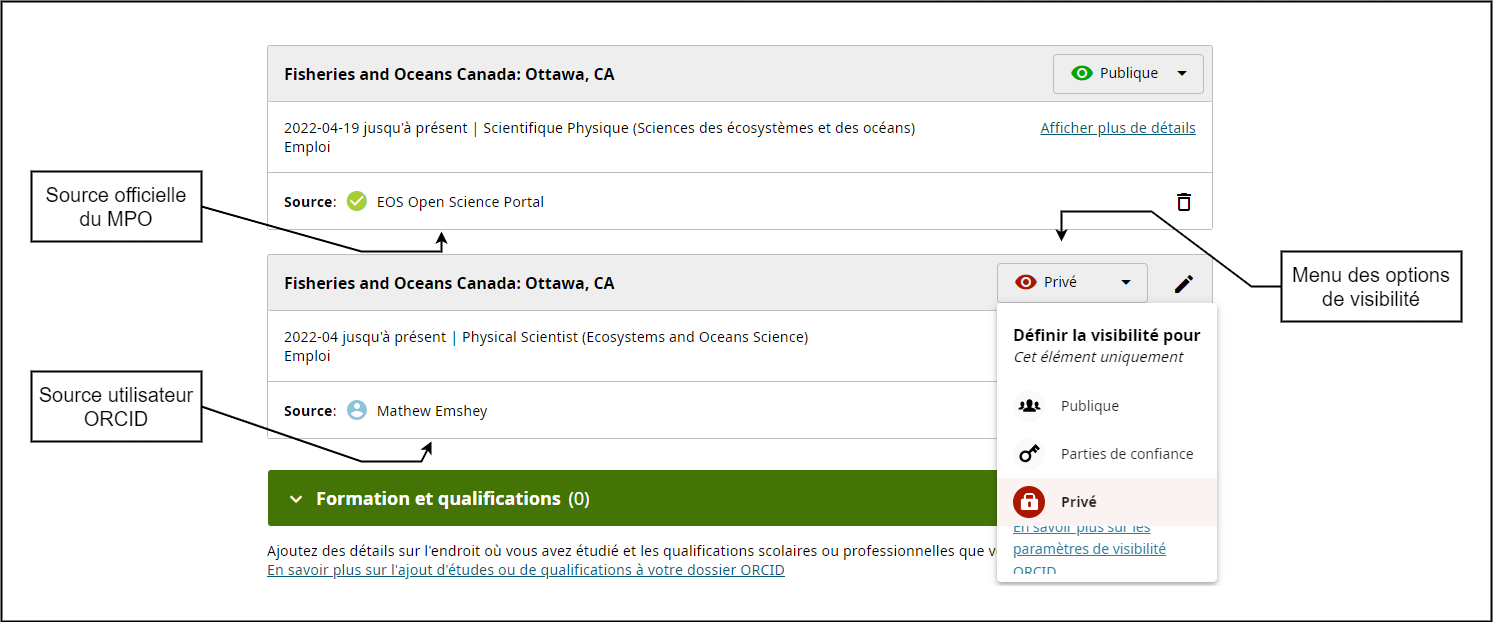
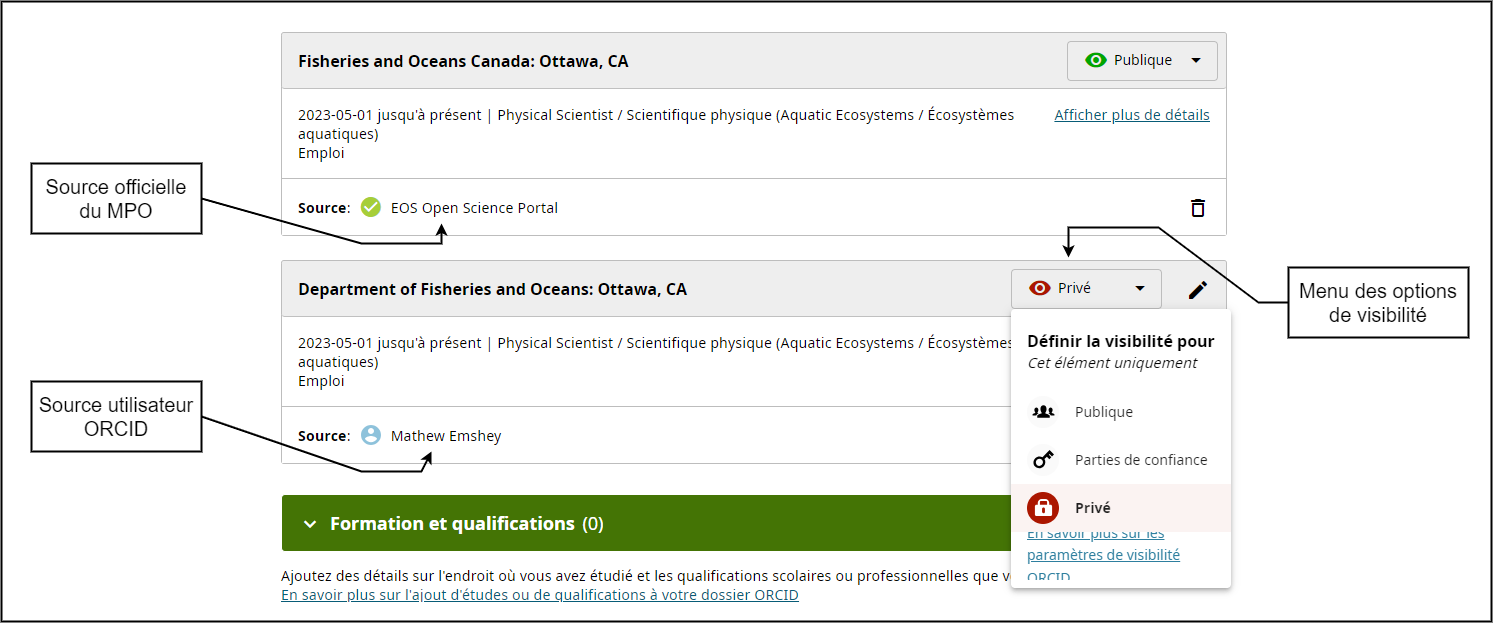
docs(orcid): updated section to include orcid best practices

diff --git a/docs/fr/guide/orcid.md b/docs/fr/guide/orcid.md
@@ -6,149 +6,160 @@ description:
 
 # 9.0 - ORCID
 
-[ORCID (Identifiant Ouvert pour Chercheurs et Contributeurs)](https://orcid.org/) est un identifiant numérique unique et
-persistant (PID) qui distingue les chercheurs individuels et leur travail, leur permettant de connecter leurs
-contributions—telles que des articles, ensembles de données et revues—à travers des organisations, des revues et des
-organismes de financement. ORCID offre un moyen simplifié de suivre et de partager les résultats de recherche avec
-précision, garantissant que les chercheurs reçoivent une attribution et une reconnaissance appropriées pour leur
-travail, même lorsqu'ils changent d’institution ou de rôle.
+[ORCID (Identifiant Ouvert de Chercheur et Contributeur)](https://orcid.org/) est un identifiant numérique unique et persistant (PID) qui distingue les chercheurs individuels et leurs travaux, leur permettant de connecter leurs contributions — comme les articles, ensembles de données et évaluations — à travers les organisations, revues et organismes de financement. ORCID offre un moyen simplifié de suivre et partager avec précision les productions de recherche, garantissant que les chercheurs reçoivent une attribution et une reconnaissance adéquates pour leur travail, même lorsqu'ils changent d’institutions ou de rôles.
 
-ORCID facilite la collecte et le rapport de données, améliore la collaboration et la visibilité à travers les projets,
-et optimise la gestion des profils de chercheurs, soutenant ainsi la transparence et la continuité dans les efforts
-scientifiques.
+ORCID simplifie la collecte et la déclaration de données, améliore la collaboration et la visibilité entre les projets, et facilite la gestion des profils de chercheurs, soutenant ainsi la transparence et la continuité des efforts scientifiques.
 
-## 9.1 - Créer un ORCID
+## 9.1 - Créer un compte ORCID
 
 Suivez ces étapes si vous **n’avez jamais** créé de compte ORCID.
 
 1. Accédez à [osp-pso.ent.dfo-mpo.ca](https://osp-pso.ent.dfo-mpo.ca/) et connectez-vous.
 2. Cliquez sur le bouton **Menu Utilisateur** dans le coin supérieur droit de la page.
 3. Cliquez sur le bouton **Paramètres**.
-4. Dans le menu **Paramètres** situé sur le côté gauche de la page, cliquez sur le bouton **Profil de l'Auteur**.
+4. Cliquez sur le bouton **Profil de l'Auteur** dans le menu **Paramètres** à gauche de la page.
 5. Sous la section **Intégration ORCID**, cliquez sur le bouton **CRÉER OU CONNECTER VOTRE ID ORCID**.
-6. Sous le titre **Connexion à ORCID**, cliquez sur le lien **S’inscrire maintenant**.
-7. Remplissez le formulaire d’inscription et cliquez sur le bouton **Étape Suivante**.
+6. Cliquez sur le lien **S’enregistrer maintenant** sous l’en-tête **Connexion à ORCID**.
+7. Remplissez le formulaire d'inscription et cliquez sur le bouton **Étape suivante**.
 
 :::tip
-Il est recommandé d’utiliser votre courriel personnel comme **Courriel Principal**. Ce profil ORCID vous appartient et
-n'est pas un produit du MPO.
+Il est recommandé d'utiliser votre courriel personnel comme **Courriel Principal**. Ce profil ORCID vous appartient et n’est pas un produit du MPO.
 
 Vous pouvez utiliser votre courriel @dfo-mpo.gc.ca comme **Courriel Secondaire**.
 :::
 
-8. Complétez le formulaire de mot de passe et cliquez sur le bouton **Étape Suivante**.
-9. Passez le formulaire *Emploi actuel* en cliquant sur le lien **Passer cette étape sans ajouter d’affiliation** situé
-sous le bouton **Étape Suivante**. Votre **Historique d’Emploi** sera ajouté dans [9.4.1 - Ajouter un Emploi via
-l’OSP](#_9-4-1-ajouter-un-emploi-via-le-systeme-osp).
-10. Sélectionnez la visibilité de profil que vous préférez et cliquez sur le bouton **Étape Suivante**.
-11. Acceptez les Conditions d’utilisation d’ORCID et cliquez sur le bouton **Terminer l’inscription**.
-12. Cliquez sur le bouton **Autoriser l’accès**. Pour plus de détails sur l’accès que vous autorisez pour l’OSP,
-veuillez consulter [9.3 - Autoriser l'Accès](#_9-3-autoriser-l-acces).
+8. Remplissez le formulaire de mot de passe et cliquez sur le bouton **Étape suivante**.
+9. Passez le formulaire *Emploi actuel* en cliquant sur le lien **Passer cette étape sans ajouter d’affiliation** situé sous le bouton **Étape suivante**. Votre **Enregistrement d’emploi** sera ajouté dans [9.4.1 - Ajouter un emploi via le PSO](#_9-4-1-ajouter-un-emploi-via-le-pso).
+10. Sélectionnez la visibilité de profil de votre choix et cliquez sur le bouton **Étape suivante**.
+11. Acceptez les conditions d'utilisation d’ORCID et cliquez sur le bouton **Terminer l'inscription**.
+12. Cliquez sur le bouton **Autoriser l'accès**. Pour plus de détails sur les accès que vous autorisez pour le PSO, consultez [9.3 - Autoriser l'accès](#_9-3-autoriser-l-acces).
 13. Cliquez sur le bouton **CONTINUER**.
-14. Vérifiez la boîte de réception de votre courriel principal et cliquez sur le bouton **Vérifiez votre adresse
-courriel**.
-15. Félicitations ! Votre compte ORCID est maintenant créé, vérifié et ajouté à votre profil OSP !
+14. Consultez la boîte de réception de votre courriel principal et cliquez sur le bouton **Vérifiez votre adresse e-mail**.
+15. Félicitations ! Votre compte ORCID est maintenant créé, vérifié et ajouté à votre profil PSO !
 
-## 9.2 - Ajouter un ORCID Existant à Votre Profil OSP
+## 9.2 - Ajouter un ORCID existant à votre profil PSO
 
-Suivez ces étapes si vous **avez déjà** un compte ORCID et souhaitez l’ajouter à votre profil OSP.
+Suivez ces étapes si vous **avez déjà** un compte ORCID et souhaitez l'ajouter à votre profil PSO.
 
 1. Accédez à [osp-pso.ent.dfo-mpo.ca](https://osp-pso.ent.dfo-mpo.ca/) et connectez-vous.
 2. Cliquez sur le bouton **Menu Utilisateur** dans le coin supérieur droit de la page.
 3. Cliquez sur le bouton **Paramètres**.
-4. Dans le menu **Paramètres** situé sur le côté gauche de la page, cliquez sur le bouton **Profil de l'Auteur**.
+4. Cliquez sur le bouton **Profil de l'Auteur** dans le menu **Paramètres** à gauche de la page.
 5. Sous la section **Intégration ORCID**, cliquez sur le bouton **CRÉER OU CONNECTER VOTRE ID ORCID**.
 6. Remplissez le formulaire de connexion pour votre compte ORCID existant, puis cliquez sur le bouton **Connexion à ORCID**.
-7. Cliquez sur le bouton **Autoriser l’accès**. Pour plus de détails sur l’accès que vous autorisez pour l’OSP, veuillez
-consulter [9.3 - Autoriser l'Accès](#_9-3-autoriser-l-acces).
+7. Cliquez sur le bouton **Autoriser l'accès**. Pour plus de détails sur les accès que vous autorisez pour le PSO, consultez [9.3 - Autoriser l'accès](#_9-3-autoriser-l-acces).
 8. Cliquez sur le bouton **CONTINUER**.
-9. Félicitations ! Votre compte ORCID est maintenant lié à votre profil OSP !
+9. Félicitations ! Votre compte ORCID est maintenant lié à votre profil PSO !
 
-## 9.3 - Autoriser l'Accès
+## 9.3 - Autoriser l'accès
 
 ![Autoriser](/images/orcid_authorize_fr.png)
 
-Pour améliorer votre expérience avec ORCID via l'OSP, nous vous encourageons à autoriser l'OSP à mettre à jour votre
-profil ORCID en votre nom. Cette autorisation permet à l'OSP d'ajouter automatiquement des attributs pertinents, tels
-que vos affiliations, domaines d'expertise et contributions à la recherche, directement sur votre profil ORCID—vous
-faisant gagner du temps et garantissant l'exactitude des informations. De plus, la gestion de vos enregistrements
-d’emploi via l'OSP permet l’apparition d’un badge officiel de source MPO sur votre profil ORCID, offrant des références
-visibles et vérifiées qui renforcent votre présence professionnelle.
+Pour améliorer votre expérience avec ORCID via le PSO, nous vous encourageons à autoriser le PSO à mettre à jour votre profil ORCID en votre nom. Cette autorisation authentifiera votre ORCID, confirmant que vous êtes employé(e) par le MPO. L'authentification permet au PSO d'ajouter automatiquement des attributs pertinents, tels que vos affiliations, domaines d'expertise et contributions scientifiques, directement à votre profil ORCID — vous faisant gagner du temps et garantissant l'exactitude. De plus, la gestion de vos dossiers d'emploi via le PSO permet à un badge officiel du MPO d'apparaître sur votre profil ORCID, fournissant des références visibles et vérifiées qui renforcent votre présence professionnelle.
+
+![Authentification](/images/orcid_authentication_fr.png)
 
 ## 9.4 - Gérer les dossiers d'emploi
 
-La gestion de vos dossiers d'emploi par le biais du Système OSP vous permet de mettre à jour votre profil ORCID avec des
-informations officielles sur votre emploi provenant de Pêches et Océans Canada (POC). En liant votre emploi à POC, vous
-renforcez la crédibilité de votre profil, ce qui le rend plus visible et digne de confiance au sein de la communauté
-scientifique.
+Gérer vos dossiers d'emploi via le PSO vous permet de mettre à jour votre profil ORCID avec des informations officielles d'emploi fournies par le MPO. En liant votre emploi au MPO, vous améliorez la crédibilité de votre profil, le rendant plus visible et digne de confiance au sein de la communauté scientifique.
 
-### 9.4.1 - Ajouter un emploi via le Système OSP
+### 9.4.1 - Ajouter un emploi via le PSO
 
-Pour ajouter un dossier d'emploi via le Système OSP :
+Pour ajouter un dossier d'emploi via le PSO :
 
-1. Allez à la section **Intégration ORCID** sous **Profil de l'auteur** dans le Système OSP.
+1. Accédez à la section **Intégration ORCID** sous **Profil de l'Auteur** dans le PSO.
 2. Cliquez sur le bouton **AJOUTER UN EMPLOI**.
-3. Complétez le formulaire *Ajouter un emploi de POC à ORCID*. Par exemple :
-    - Organisation : Pêches et Océans Canada
-    - Département : Exemple, Science des écosystèmes et des océans
-    - Rôle/Titre du poste : Exemple, Biologiste
+3. Remplissez le formulaire *Ajouter un emploi MPO à ORCID*. Par exemple :
+    - Organisation : Pêches et Océans Canada (Défini par défaut)
+    - Département : Sciences des écosystèmes et des océans / Ecosystems and Oceans Science
+    - Poste ou titre d'emploi : Exemple, Biologiste / Biologist
     - Ne pas inclure de **Date de fin** si vous ajoutez votre poste actuel.
 4. Cliquez sur le bouton **CRÉER** pour ajouter le poste.
 
-### 9.4.2 - Masquer les emplois non issus de POC
+:::tip
+Il est recommandé d'inclure votre département et votre titre de poste en anglais et en français !
 
-Lorsque vous créez initialement votre compte ORCID, on vous demande d'ajouter votre emploi actuel. Dans ORCID, cet
-emploi apparaîtra sous *Provenant de votre compte utilisateur ORCID*. Si vous souhaitez que vos dossiers d'emploi
-apparaissent comme *Provenant de POC* :
+Consultez [9.6 - Meilleures pratiques](#_9-6-meilleures-pratiques) pour plus d'informations.
+:::
+
+### 9.4.2 - Masquer les emplois non attribués au MPO
+
+Lorsque vous créez initialement votre compte ORCID, vous êtes invité(e) à ajouter votre emploi actuel. Dans ORCID, cette entrée d'emploi s'affiche comme *Attribué à votre compte utilisateur ORCID*. Il est recommandé dans les [meilleures pratiques ORCID](#_9-6-meilleures-pratiques) que tous les enregistrements liés à vos activités au MPO portent le badge officiel du MPO.
 
 ![Emploi](/images/orcid_employment_fr.png)
 
-1. Ajoutez vos dossiers actuels et/ou précédents en suivant les étapes dans [9.4.1 - Ajouter un emploi via le Système
-OSP](#_9-4-1-ajouter-un-emploi-via-le-systeme-osp).
-2. Allez sur [orcid.org](https://orcid.org/signin) **>** Connectez-vous à votre compte ORCID.
-3. Sous la section *Emploi*, localisez le dossier d'emploi, qui s'affichera comme **Source : *Votre nom***.
-4. Cliquez sur le bouton **Visibilité** dans le coin supérieur droit de votre dossier d'emploi pour développer les
-*Paramètres de visibilité* pour cet élément.
-    - Le paramètre de visibilité peut être **Tout le monde**, **Parties de confiance**, ou **Moi uniquement**, selon le
-    niveau défini lors de la création du compte.
-5. Cliquez sur **Moi uniquement** pour masquer le dossier d'emploi.
+Pour masquer un enregistrement d'emploi auto-attribué :
+1. Ajoutez vos emplois actuels et/ou précédents en suivant les étapes décrites dans [9.4.1 - Ajouter un emploi via le PSO](#_9-4-1-ajouter-un-emploi-via-le-pso).
+2. Accédez à [orcid.org](https://orcid.org/signin) **>** Connectez-vous à votre compte ORCID.
+3. Sous la section *Emploi*, localisez l'enregistrement d'emploi affiché comme **Source : *Votre nom***.
+4. Cliquez sur le bouton **Visibilité** dans le coin supérieur droit de l'enregistrement d'emploi pour afficher les *Paramètres de visibilité* de cette entrée.
+    - Le paramètre de visibilité affiché peut être **Tout le monde**, **Parties de confiance**, ou **Seulement moi**, selon le niveau défini lors de la création du compte.
+5. Cliquez sur **Seulement moi** pour masquer l'enregistrement d'emploi.
 
-### 9.4.3 - Modifier un dossier d'emploi
+### 9.4.3 - Modifier les enregistrements d'emploi
 
-Pour modifier un dossier d'emploi :
+Pour modifier un enregistrement d'emploi :
 
-1. Allez à la section **Intégration ORCID** sous **Profil de l'auteur** dans le Système OSP.
-2. Cliquez sur le dossier d'emploi que vous souhaitez modifier.
-3. Apportez vos modifications dans le formulaire **Modifier votre emploi à POC dans ORCID**.
-4. Cliquez sur le bouton **SAUVEGARDER** pour appliquer vos modifications ou sur le bouton **ANNULER** pour conserver le
-dossier tel quel.
+1. Accédez à la section **Intégration ORCID** sous **Profil de l'Auteur** dans le PSO.
+2. Cliquez sur l'enregistrement d'emploi que vous souhaitez modifier.
+3. Effectuez vos modifications dans le formulaire **Modifier votre enregistrement d'emploi ORCID du MPO**.
+4. Cliquez sur le bouton **ENREGISTRER** pour appliquer vos modifications ou sur le bouton **ANNULER** pour conserver l'enregistrement tel quel.
 
-### 9.4.4 - Supprimer un dossier d'emploi
+### 9.4.4 - Supprimer les enregistrements d'emploi
 
-Pour supprimer un dossier d'emploi :
+Pour supprimer un enregistrement d'emploi :
 
-1. Allez à la section **Intégration ORCID** sous **Profil de l'auteur** dans le Système OSP.
-2. Cliquez sur le dossier d'emploi que vous souhaitez supprimer.
-3. Cliquez sur le bouton **SUPPRIMER** **>** Cliquez à nouveau sur le bouton **SUPPRIMER** pour confirmer la suppression.
+1. Accédez à la section **Intégration ORCID** sous **Profil de l'Auteur** dans le PSO.
+2. Cliquez sur l'enregistrement d'emploi que vous souhaitez supprimer.
+3. Cliquez sur le bouton **SUPPRIMER** **>** Cliquez de nouveau sur le bouton **SUPPRIMER** pour confirmer la suppression.
 
 :::warning
-Cela supprimera le dossier d'emploi du Système OSP et de votre profil ORCID !
+Cela supprimera l'enregistrement d'emploi du PSO **et** de votre profil ORCID !
 :::
 
 ## 9.5 - Déconnecter votre ORCID
 
-Si vous souhaitez déconnecter votre profil ORCID de votre compte OSP :
+Si vous souhaitez déconnecter votre profil ORCID de votre compte PSO :
 
-1. Allez à la section **Intégration ORCID** sous **Profil de l'auteur** dans le Système OSP.
-2. Cliquez sur le bouton **DÉCONNECTER VOTRE IDENTIFIANT ORCID**.
+1. Accédez à la section **Intégration ORCID** sous **Profil de l'Auteur** dans le PSO.
+2. Cliquez sur le bouton **DÉCONNECTER VOTRE ID ORCID**.
 3. Cliquez sur le bouton **OUI** pour confirmer que vous souhaitez déconnecter votre compte ORCID.
 
-Une fois que vous avez déconnecté votre compte ORCID, le Système OSP supprimera toutes les clés ou jetons utilisés pour
-modifier votre profil ORCID. Cela signifie que le Système OSP ne pourra plus apporter de modifications à votre profil
-ORCID.
+Une fois votre compte ORCID déconnecté, le PSO supprimera toutes les clés ou jetons utilisés pour modifier votre profil ORCID. Cela signifie que le PSO ne pourra plus effectuer de modifications sur votre profil ORCID.
 
-Toutes les modifications apportées par le Système OSP à votre profil ORCID resteront dans votre profil ORCID. Toute
-suppression ou modification de votre compte ORCID doit être effectuée via le [site Web d'ORCID](https://orcid.org/).
+Toute modification effectuée par le PSO sur votre profil ORCID existera toujours dans votre profil ORCID. Toute suppression ou modification de votre compte ORCID doit être effectuée via le [site Web d'ORCID](https://orcid.org/).
 
-Si vous souhaitez reconnecter votre profil ORCID à votre profil OSP, veuillez suivre les étapes de [9.2 - Ajouter un
-ORCID existant à votre profil OSP](#_9-2-ajouter-un-orcid-existant-a-votre-profil-osp).
+Si vous souhaitez reconnecter votre profil ORCID à votre profil PSO, veuillez suivre les étapes décrites dans [9.2 -
+Ajouter un ORCID existant à votre profil PSO](#_9-2-ajouter-un-orcid-existant-a-votre-profil-pso).
+
+## 9.6 - Meilleures pratiques
+
+Les points suivants représentent les meilleures pratiques recommandées par ORCID dans le cadre du PSO.
+
+### Authentifiez votre compte ORCID
+
+L’authentification de votre compte ORCID permettra au PSO de mettre automatiquement à jour votre profil ORCID à partir d’une source officielle du MPO. Veuillez suivre les étapes décrites dans [9.2 - Ajouter un ORCID existant à votre profil PSO](#_9-2-ajouter-un-orcid-existant-a-votre-profil-pso). Si vous n’avez pas encore de compte ORCID, vous pouvez en créer un via le PSO en suivant les étapes décrites dans [9.1 - Créer un ORCID](#_9-1-creer-un-compte-orcid).
+
+![Exemple d’ORCID authentifié](/images/orcid_authorized_example_fr.png)
+
+### Utilisez le badge officiel du MPO comme source
+
+Si vous avez ajouté des enregistrements d'emploi du MPO via le site web d’ORCID, ces enregistrements seront attribués à votre compte utilisateur. En réajoutant ces enregistrements via le PSO, un badge officiel de source MPO sera appliqué.
+
+Consultez la figure dans [9.4.2 - Masquer les emplois non attribués au MPO](#_9-4-2-masquer-les-emplois-non-attribues-au-mpo) pour un exemple des différents badges de source.
+
+### Organisation et titre du poste bilingues
+
+- Incluez les versions anglaise et française de votre organisation et de votre titre de poste.
+- L’ordre du français et de l’anglais dépend de votre préférence.
+- Séparez le français et l’anglais par un /.
+    - Anglais / Français
+    - Français / Anglais
+
+![Exemple d’entrée d’emploi](/images/orcid_role_title_fr.png)
+
+### Mettez à jour vos enregistrements d’emploi lorsque votre emploi change
+
+Si votre rôle actuel au MPO prend fin, y compris les rôles intérimaires, il est important d’ajouter une **date de fin** à ces enregistrements d’emploi via le PSO. Cela permet de maintenir un historique d’emploi clair et professionnel.
+
+![Historique d’emploi](/images/orcid_updated_employment_fr.png)

diff --git a/docs/guide/orcid.md b/docs/guide/orcid.md
@@ -67,10 +67,13 @@ Authorize Access](#_9-3-authorize-access).
 ![Authorize](/images/orcid_authorize.png)
 
 To enhance your experience with ORCID through the OSP, we encourage you to authorize the OSP to update your ORCID
-profile on your behalf. This authorization allows the OSP to automatically add relevant attributes, such as your
+profile on your behalf. This authorization will authenticate your ORCID, confirming that you are a DFO
+employee. Authenticating allows the OSP to automatically add relevant attributes, such as your
 affiliations, areas of expertise, and research contributions, directly to your ORCID profile—saving you time and
 ensuring accuracy. Additionally, managing your employment records through the OSP enables an official DFO source badge
 to appear on your ORCID profile, providing visible, verified credentials that bolster your professional presence.
+
+![Authentication](/images/orcid_authentication.png)
 
 ## 9.4 - Manage Employment Records
 
@@ -83,18 +86,27 @@ To add an employment record through the OSP:
 1. Navigate to the **ORCID Integration** section under **Author Profile** within the OSP.
 2. Click the **ADD EMPLOYMENT** button.
 3. Complete the *Add a DFO employment to ORCID* form. For example:
-    - Organization: Fisheries and Oceans Canada
-    - Department: Example, Ecosystems and Oceans Science
-    - Role/Job title: Example, Biologist
+    - Organization: Fisheries and Oceans Canada (Set by default)
+    - Department: Ecosystems and Oceans Science / Sciences des écosystèmes et des océans
+    - Role/Job title: Example, Biologist / Biologiste
     - Do not include an **End Date** if you are adding your current role.
 4. Click the **CREATE** button to add the role.
 
+:::tip
+It is a Best Practice to include your Department and Role Title in English and French!
+
+See [9.6 - Best Practices](#_9-6-best-practices) for more information.
+:::
+
 ### 9.4.2 - Hide Non-DFO Sourced Employment
 
-When you initially create your ORCID account, you are prompted to add your current employment. Within ORCID, this employment entry will display as *Sourced by your ORCID User Account*. If you would like your employment records to appear as *Sourced by DFO*:
+When you initially create your ORCID account, you are prompted to add your current employment. Within ORCID, this
+employment entry will display as *Sourced by your ORCID User Account*. It is a [ORCID Best Practice](#_9-6-best-practices) to have all
+records related to your DFO activities to have the DFO Source Badge.
 
 ![Employment](/images/orcid_employment.png)
 
+To hide your self-sourced employment record,
 1. Add your current and/or previous records by following the steps in [9.4.1 - Add Employment through the OSP](#_9-4-1-add-employment-through-the-osp).
 2. Navigate to [orcid.org](https://orcid.org/signin) **>** Sign in to your ORCID account.
 3. Under the *Employment* section, locate the employment record, which will display as **Source: *Your Name***.
@@ -135,4 +147,45 @@ Once you disconnect your ORCID account, the OSP will delete any keys or tokens u
 
 Any modifications made by the OSP to your ORCID profile will still exist in your ORCID profile. Any removals or changes to your ORCID account must be done through the [ORCID website](https://orcid.org/).
 
-If you would like to reconnect your ORCID profile to your OSP profile, please follow the steps in [9.2 - Add an Existing ORCID to your OSP Profile](#_9-2-add-an-existing-orcid-to-your-osp-profile).
+If you would like to reconnect your ORCID profile to your OSP profile, please follow the steps in [9.2 - Add an Existing
+ORCID to your OSP Profile](#_9-2-add-an-existing-orcid-to-your-osp-profile).
+
+## 9.6 - Best Practices
+
+The following points are Best Practices recommended by ORCID in the context of the OSP.
+
+### Authenticate Your ORCID
+
+Authenticating your ORCID account will allow the OSP to automatically update your ORCID profile from an official DFO
+source. Please follow the steps in [9.2 - Add an Existing ORCID to Your OSP
+Profile](#_9-2-add-an-existing-orcid-to-your-osp-profile). If you do not have an ORCID, you can create one through the
+OSP by following [9.1 - Create an ORCID](#_9-1-create-an-orcid).
+
+![Authenticated ORCID Example](/images/orcid_authorized_example.png)
+
+
+### Use the Offical DFO Source Badge
+
+If you have added DFO employment records through the ORCID website, these records will be sourced by you. Re-adding
+these records through the OSP will apply an official DFO Source badge.
+
+See the figure in [9.4.2 - Hide Non-DFO Sourced Employment](#_9-4-2-hide-non-dfo-sourced-employment) for an example of
+the different source badges.
+
+### Bilingual Organization and Role Title
+
+- Include the English and French for your Organization and Role Title.
+- Order of French and English is your preference.
+- Separate the English and French with a /.
+    - English / French
+    - French / English
+
+![Employment Entry Example](/images/orcid_role_title.png)
+
+### Update Your Employment Records when your Employment Changes
+
+If your current role at DFO comes to an end, including Acting roles, it is important that you
+add the **End-Date** to those employment records through the OSP. This keeps your employment history clear and
+professional.
+
+![Employment History](/images/orcid_updated_employment.png)
